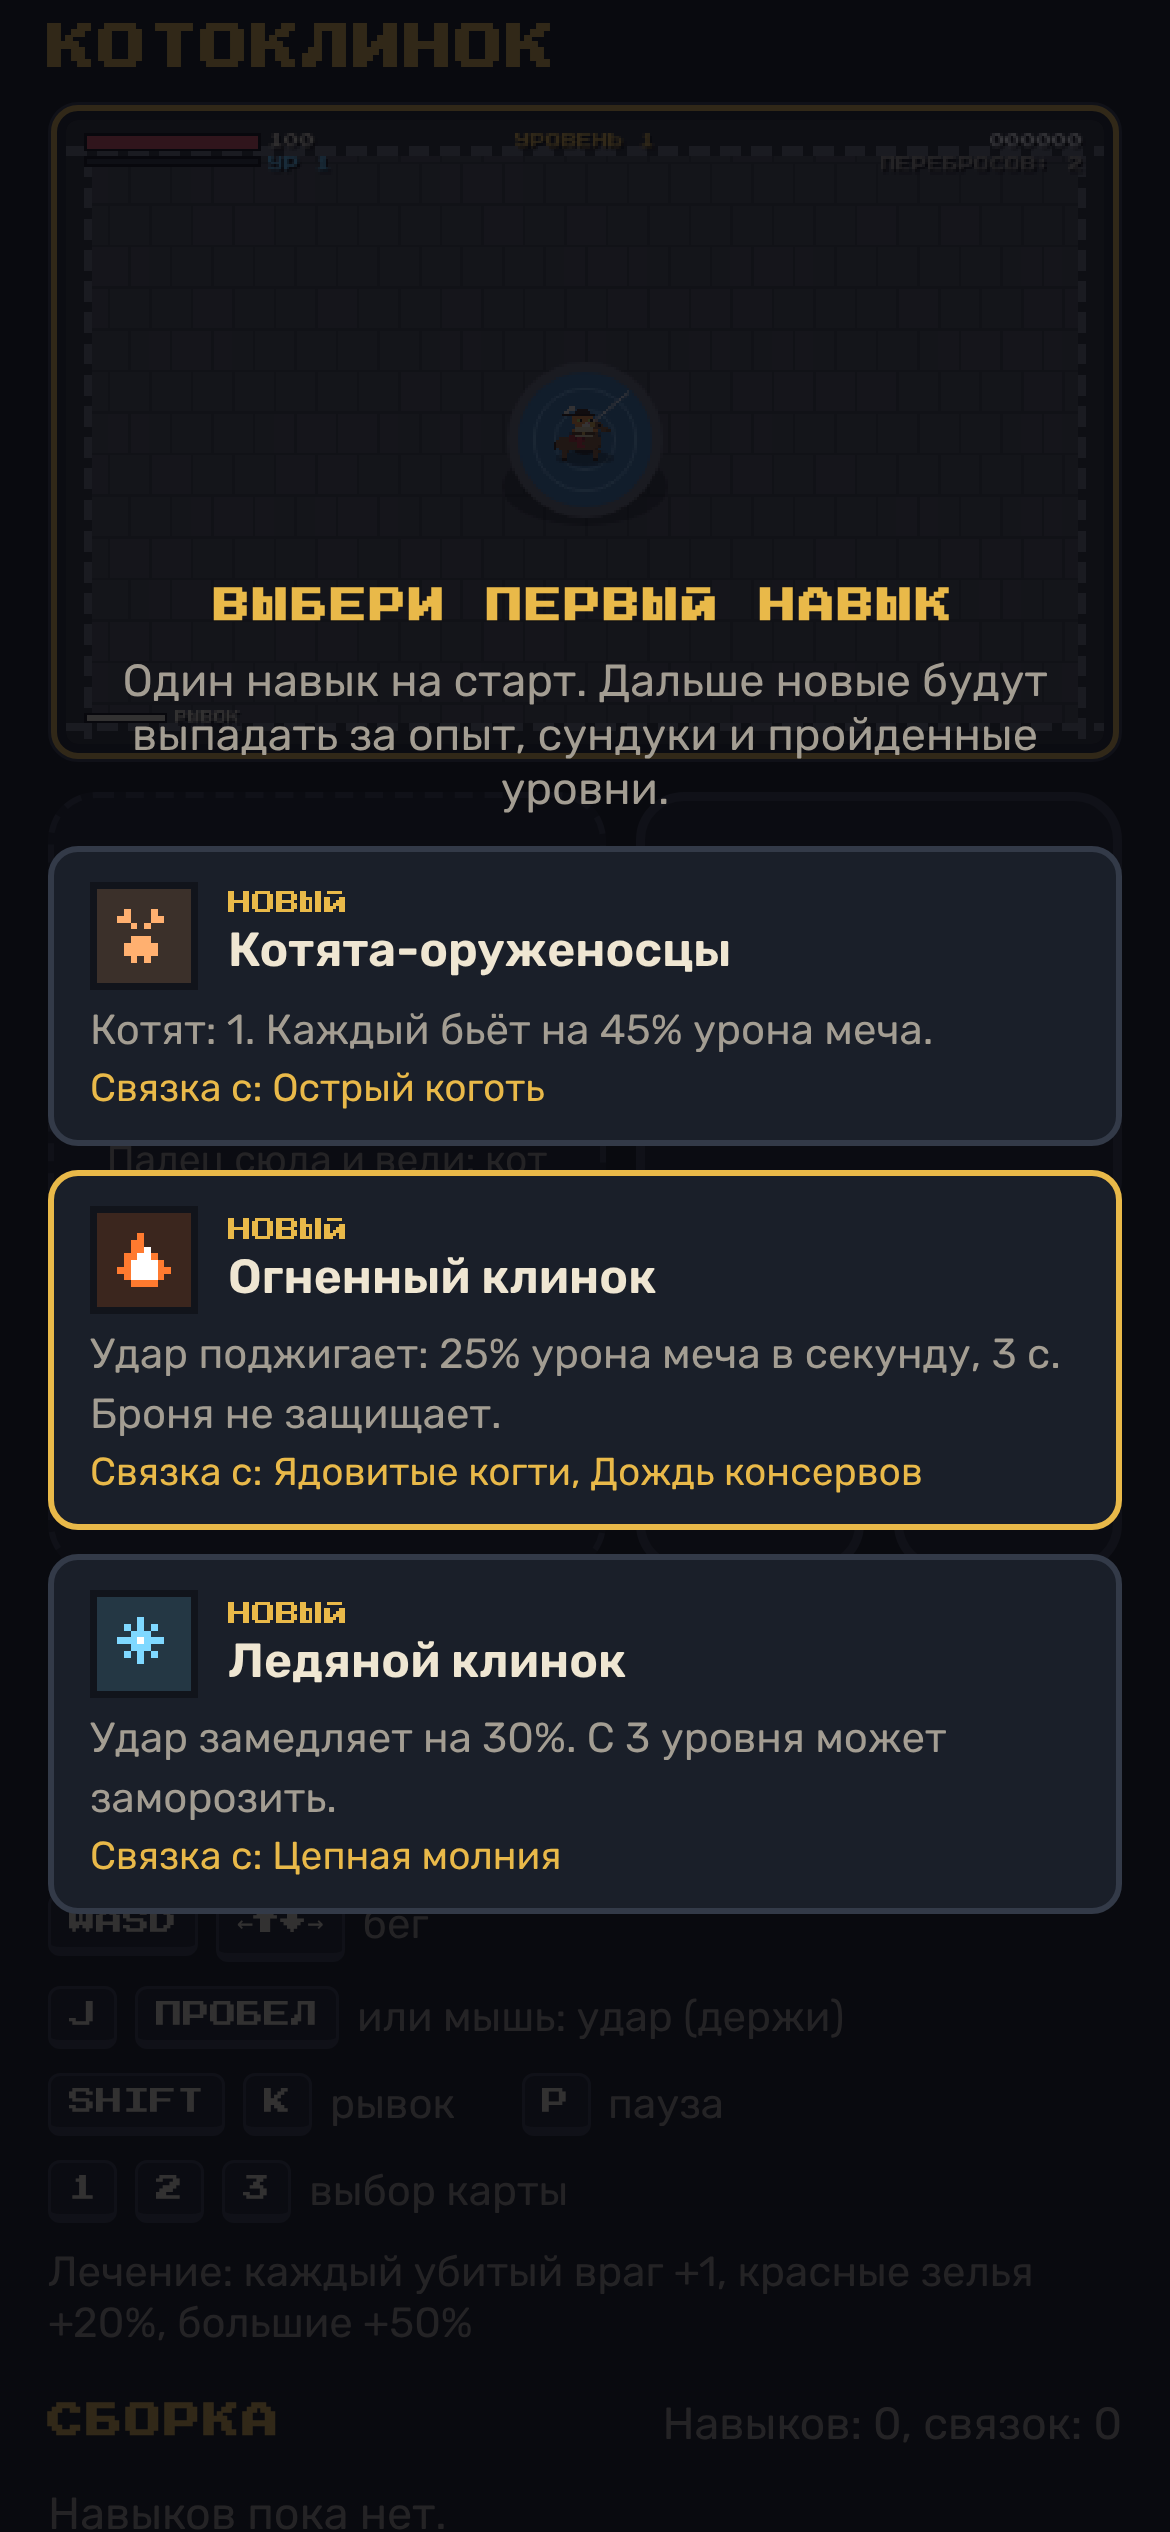
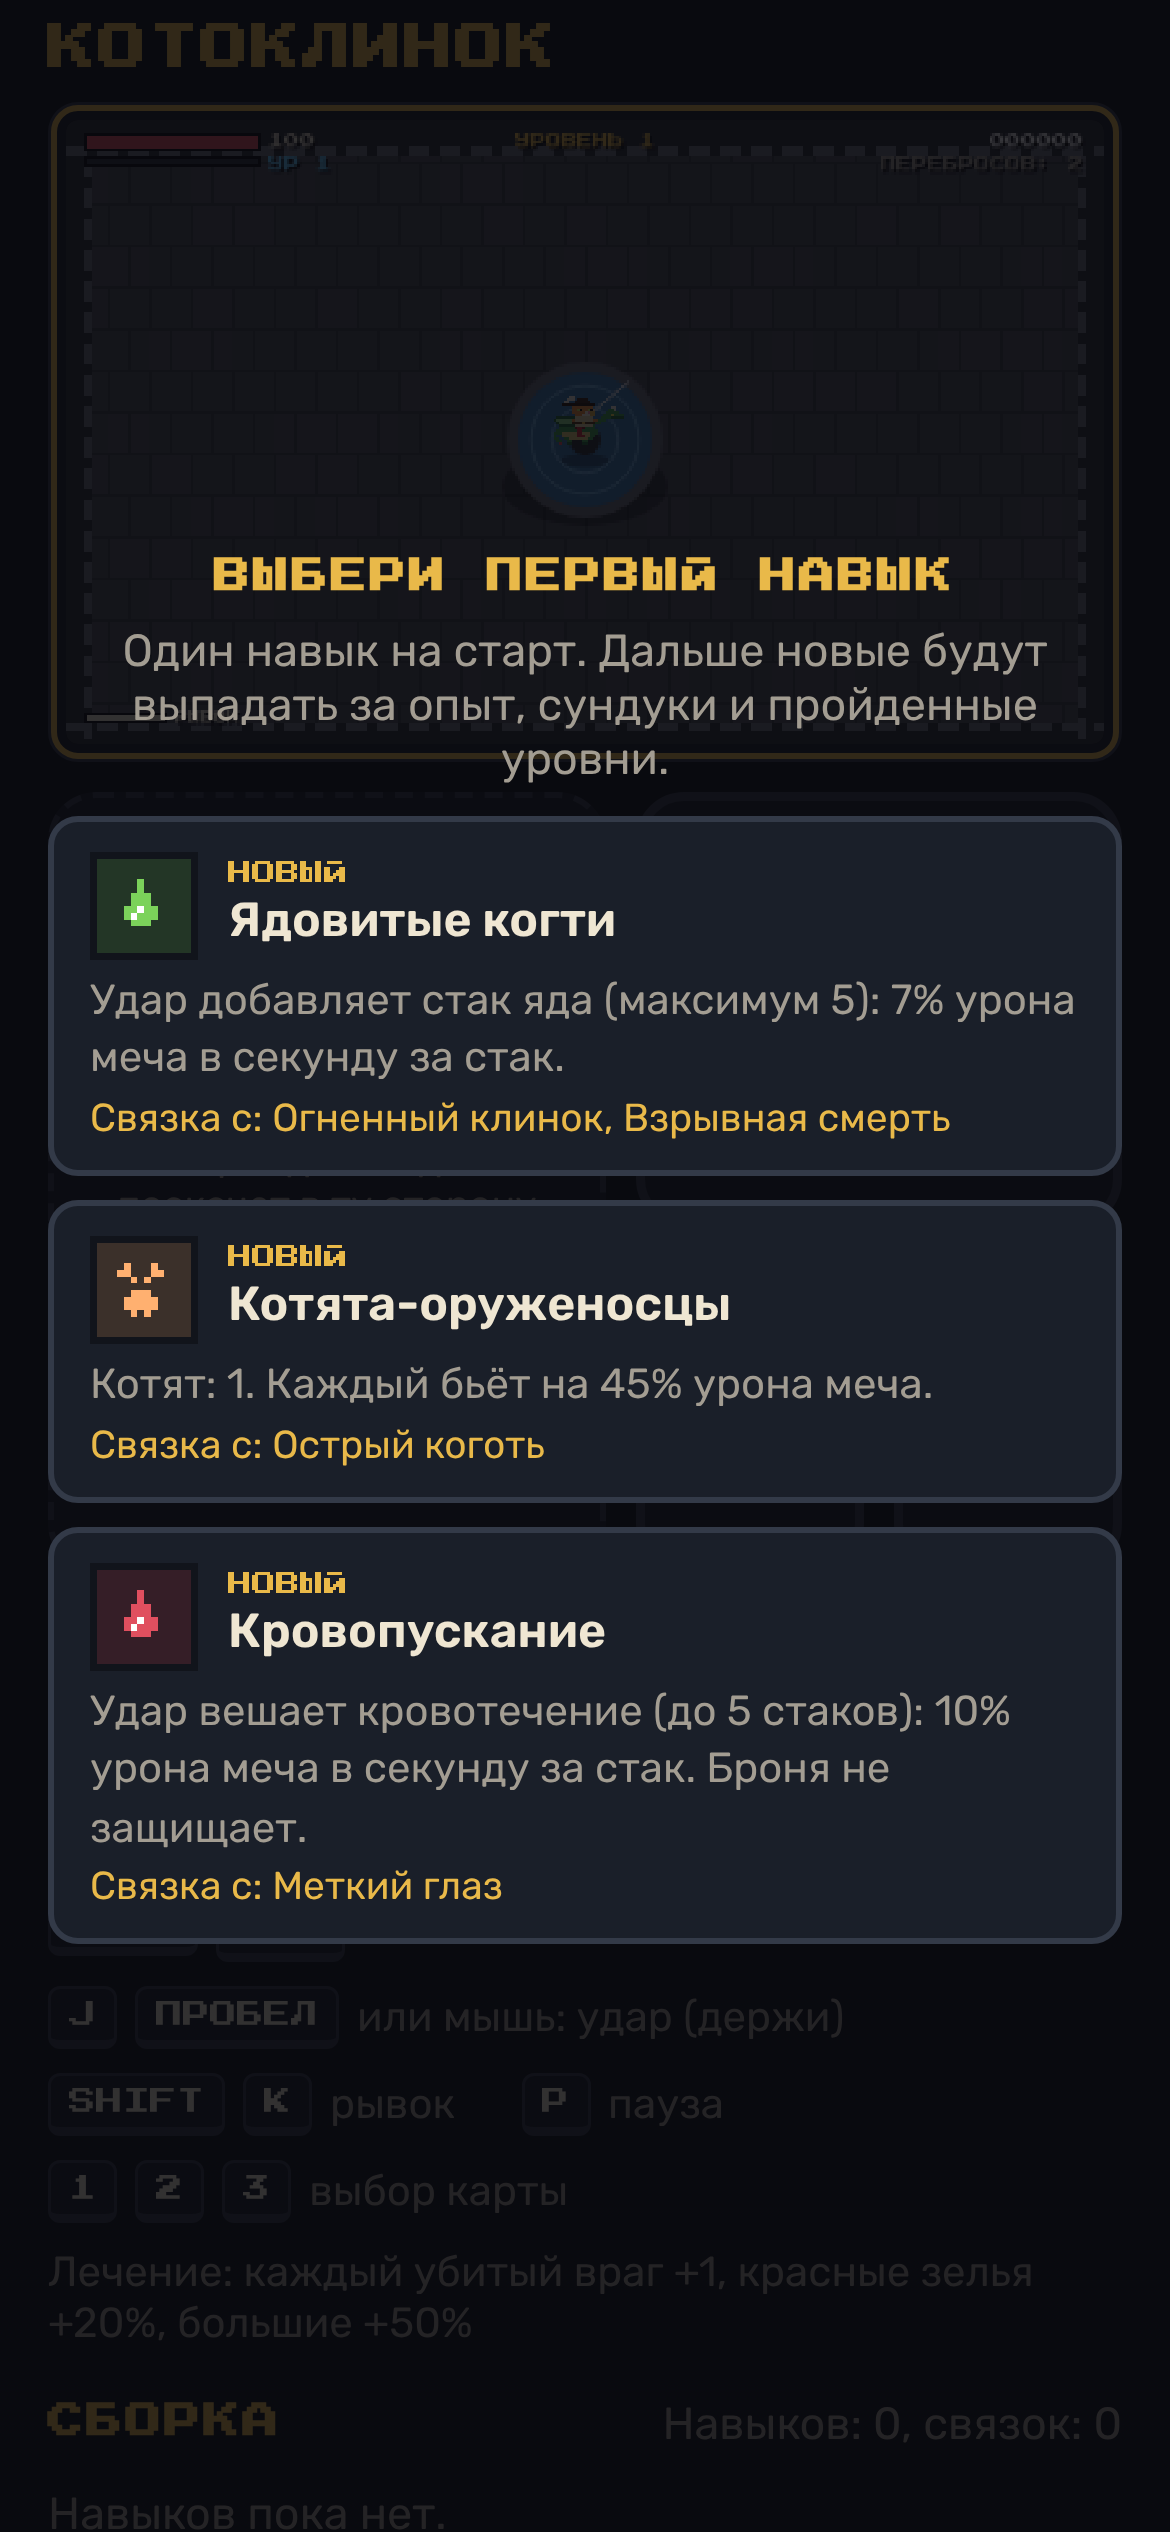
Kotoklinok: cat rides a small dragon; longer levels with more enemies
Claude-Session: https://claude.ai/code/session_01DbCCahaRksbwXVQUwM4NGi

diff --git a/knight/index.html b/knight/index.html
@@ -153,7 +153,7 @@ kbd {
 <div class="wrap">
   <header>
     <h1>КОТОКЛИНОК</h1>
-    <p>Кот в сапогах на коне против крысиного войска. Собери сильную связку навыков.</p>
+    <p>Кот в сапогах на драконе против крысиного войска. Собери сильную связку навыков.</p>
   </header>
 
   <div class="stage">
@@ -267,40 +267,49 @@ const CAT_RIDER = [
   '.........RR.............',
   '.........RRR............',
 ];
-const HORSE_TOP = [
-  '........................',
-  '........................',
-  '........................',
-  '........................',
-  '........................',
-  '...............mn.......',
-  '...............mnn......',
-  '..............mnnxn.....',
-  '..............mnnnnnn...',
-  '.............mnnn.nnNN..',
-  '.............mnnn.......',
-  '......qqqqqqmnnnn.......',
-  '..nnnnqqqqqqnnnnnn......',
-  '.nnnnnqqqqqqnnnnnn......',
-  'mnnnnnnnnnnnnnnnnn......',
-  'mnnnnnnnnnnnnnnnnN......',
-  'm.nnnnnnnnnnnnnnN.......',
+// a small green dragon; the wing layer flaps over its back, the cat sits on top
+const DRAGON = [
+  '............................',
+  '............................',
+  '............................',
+  '............................',
+  '......................cc....',
+  '.....................nnc....',
+  '....................nnnnn...',
+  '...................nnnxnnnn.',
+  '..................nnnnNNNNN.',
+  '................nnnn........',
+  '..............nnnn..........',
+  '...z.z.z....nnnn............',
+  '..nnnnnnnnnnnnnn............',
+  '.nnnnnnnnnnnnnnnn...........',
+  'nnnvvvvvvvvvvvnnn...........',
+  'n..vvvvvvvvvvvnn............',
+  'nn..nnvvvvvvvnn.............',
+  '.nn..nn....nn...............',
+  '..z..NN....NN...............',
+  '............................',
+  '............................',
 ];
-const HORSE_LEGS = [
-  ['...nnN.........nnN......', '...nn..........nn.......', '...nn..........nn.......', '...hh..........hh.......'],
-  ['....nnN......nnN........', '.....nn.....nn..........', '......nn...nn...........', '......hh...hh...........'],
-  ['...nnN.........nnN......', '..nn.............nn.....', '.nn...............nn....', '.hh...............hh....'],
-];
+const WING = {
+  up: { 2: '..j.....................', 3: '..jj....................', 4: '..jmj...................', 5: '..jmmj..................', 6: '..jmmmj.................',
+        7: '..jmmmmj................', 8: '..jmmmmmj...............', 9: '...jmmmmmj..............', 10: '....jjjjjjj.............' },
+  mid: { 8: '.jjjjjjj................', 9: 'jmmmmmmmj...............', 10: '.jmmmmmmj...............', 11: '..jjjjjj................' },
+  down: { 10: '....jjjjj...............', 11: '...jmmmmmj..............', 12: '..jmmmmj................', 13: '.jmmmj..................', 14: '.jjj....................' },
+};
 const KNIGHT_PAL = {
   F: '#f4efe0', H: '#3a2418', b: '#2a1a10', o: '#f39237', g: '#c8e65a', k: '#111', w: '#fff1dc', p: '#ff8fb1',
   s: '#e8d6a8', e: '#5a3a1a', y: '#e9b949', R: '#d0303a', r: '#8a1f28',
-  n: '#8a5a34', N: '#6a4224', m: '#2a1a10', x: '#111', h: '#2a1a10', q: '#b8302e',
+  n: '#3fa34d', N: '#24693a', v: '#e9d27a', c: '#f4efe0', x: '#ffe14d', z: '#e04f5f', j: '#24693a', m: '#8fdc8a',
 };
-function riderRows(legs) {
-  const horse = HORSE_TOP.concat(legs);
-  return horse.map((row, y) => [...row].map((ch, x) => { const c = (CAT_RIDER[y] || '')[x]; return c && c !== '.' ? c : ch; }).join(''));
+function riderRows(wing) {
+  return DRAGON.map((row, y) => [...row].map((ch, x) => {
+    const c = (CAT_RIDER[y] || '')[x]; if (c && c !== '.') return c;
+    const wc = (wing[y] || '')[x]; if (wc && wc !== '.') return wc;
+    return ch;
+  }).join(''));
 }
-const KNIGHT = set(HORSE_LEGS.map(riderRows), KNIGHT_PAL);
+const KNIGHT = set([WING.up, WING.mid, WING.down, WING.mid].map(riderRows), KNIGHT_PAL);
 
 const RAT_TOP = ['........pp..', '......gpggg.', '..ggggggkggg', '.ggggggggggp', 'tgggggggggg.'];
 const RAT_ROWS = [RAT_TOP.concat(['t..l...l....', 'tt..........']), RAT_TOP.concat(['t...l...l...', 'tt..........'])];
@@ -534,7 +543,7 @@ const isBoss = (L) => L % 5 === 0;
 const biomeOf = (L) => Math.floor((L - 1) / 5) % BIOMES.length;
 function startLevel() {
   G.phase = 'fight';
-  G.waves = isBoss(G.level) ? 2 : 3;
+  G.waves = isBoss(G.level) ? 3 : 4;
   const lay = LAYOUTS[(G.level - 1) % LAYOUTS.length]; G.pillars = lay.obs; G.arena = lay.name;
   P.x = 200; P.y = G.pillars.some(p => Math.hypot(p.x - 200, p.y - 125) < p.r + 10) ? 200 : 125;
   foes = []; spawns = []; shots = []; pshots = []; gems = []; zones = []; meteors = [];
@@ -553,7 +562,7 @@ function startWave(w) {
   if (L >= 6) pool.push(['dog', 2]);
   if (L >= 8) pool.push(['shaman', 1]);
   const sum = pool.reduce((a, b) => a + b[1], 0);
-  let n = Math.min(70, 7 + L * 2 + w * 3);
+  let n = Math.min(90, 9 + Math.round(L * 2.4) + w * 4);
   const list = [];
   if (isBoss(L) && w === G.waves) {
     list.push({ type: ['ratking', 'bigdog', 'owl'][(L / 5 - 1) % 3], elite: false });
@@ -568,7 +577,7 @@ function startWave(w) {
     if (type === 'mouse' && !elite) { list.push({ type }, { type }, { type }); i += 2; continue; }
     list.push({ type, elite });
   }
-  if (L >= 4 && w === 3 && elites === 0) list.push({ type: pick(pool)[0], elite: true });
+  if (L >= 4 && w === G.waves && elites === 0) list.push({ type: pick(pool)[0], elite: true });
   G.toSpawn = list;
   G.spawnT = 40;
   if (w > 1) G.banner = { text: 'ВОЛНА ' + w + ' ИЗ ' + G.waves, sub: isBoss(L) && w === G.waves ? 'БОСС ИДЁТ' : '', t: 80 };
@@ -923,11 +932,11 @@ function spawnStep() {
   spawns = spawns.filter(s => s.t > 0);
   if (!G.toSpawn.length) return;
   if (--G.spawnT > 0) return;
-  if (foes.length + spawns.length >= 26 + G.level * 1.5) return;
+  if (foes.length + spawns.length >= 30 + G.level * 1.8) return;
   const next = G.toSpawn.shift();
   const p = FOE[next.type].boss ? { x: 200, y: ARENA.y0 + 40 } : spawnPoint();
   spawns.push({ ...next, ...p, t: FOE[next.type].boss ? 70 : 40 });
-  G.spawnT = Math.max(12, 48 - G.level * 2);
+  G.spawnT = Math.max(10, 42 - G.level * 2);
 }
 
 function foeStep() {
@@ -1329,20 +1338,21 @@ function drawFoe(e) {
 function drawKnight() {
   if (G.phase === 'dead') return;
   const blink = P.inv > 0 && Math.floor(P.inv / 3) % 2;
-  const frame = P.moving ? 1 + Math.floor(P.anim) % 2 : 0;
+  const frame = Math.floor(G.t / (P.moving ? 4 : 7)) % 4;
   const img = P.face > 0 ? KNIGHT.r[frame] : KNIGHT.l[frame];
-  const x = Math.round(P.x - 12), y = Math.round(P.y - 15);
-  cx.fillStyle = 'rgba(0,0,0,0.35)'; cx.beginPath(); cx.ellipse(P.x, P.y + 5, 11, 3, 0, 0, TAU); cx.fill();
+  const bob = Math.round(Math.sin(G.t * 0.12) * 1.5);
+  const x = Math.round(P.x - 12), y = Math.round(P.y - 18) + bob;
+  cx.fillStyle = 'rgba(0,0,0,0.28)'; cx.beginPath(); cx.ellipse(P.x, P.y + 6, 9 - bob * 0.5, 2.5, 0, 0, TAU); cx.fill();
   if (!blink) cx.drawImage(img, x, y);
   // rapier in the cat's paw
-  const hx = P.x + 1 * P.face, hy = P.y - 7;
+  const hx = P.x + 1 * P.face, hy = P.y - 10 + bob;
   const a = P.swingT > 0 ? P.swingA + (P.swingT - 5) * 0.22 * (Math.cos(P.swingA) >= 0 ? 1 : -1) : (P.face > 0 ? -0.7 : Math.PI + 0.7);
   const sl = 12 + st.range * 0.3;
   cx.strokeStyle = '#e8ecf5'; cx.lineWidth = 1;
   cx.beginPath(); cx.moveTo(hx + Math.cos(a) * 2, hy + Math.sin(a) * 2); cx.lineTo(hx + Math.cos(a) * sl, hy + Math.sin(a) * sl); cx.stroke();
   cx.fillStyle = '#e9b949'; cx.fillRect(Math.round(hx + Math.cos(a) * 2) - 1, Math.round(hy + Math.sin(a) * 2) - 1, 2, 2);
   cx.lineWidth = 1;
-  if (lv('yarnshield') && P.shield) { cx.strokeStyle = 'rgba(255,143,208,0.55)'; cx.beginPath(); cx.arc(P.x, P.y - 4, 16, 0, TAU); cx.stroke(); }
+  if (lv('yarnshield') && P.shield) { cx.strokeStyle = 'rgba(255,143,208,0.55)'; cx.beginPath(); cx.arc(P.x, P.y - 7, 16, 0, TAU); cx.stroke(); }
 }
 
 function draw() {
@@ -1445,7 +1455,7 @@ function draw() {
   }
   for (const r of rings) { cx.strokeStyle = r.color; cx.globalAlpha = r.t / 16; cx.lineWidth = 2; cx.beginPath(); cx.arc(r.x, r.y, r.r, 0, TAU); cx.stroke(); cx.lineWidth = 1; cx.globalAlpha = 1; }
   for (const p of fx) {
-    if (p.ghost) { cx.globalAlpha = p.t / 24; cx.drawImage(p.ghost > 0 ? KNIGHT.w[0] : KNIGHT.wl[0], Math.round(p.x - 12), Math.round(p.y - 15)); cx.globalAlpha = 1; continue; }
+    if (p.ghost) { cx.globalAlpha = p.t / 24; cx.drawImage(p.ghost > 0 ? KNIGHT.w[0] : KNIGHT.wl[0], Math.round(p.x - 12), Math.round(p.y - 18)); cx.globalAlpha = 1; continue; }
     cx.fillStyle = p.color; cx.fillRect(Math.round(p.x), Math.round(p.y), 2, 2);
   }
   for (const n of nums) {

diff --git a/README.md b/README.md
@@ -11,7 +11,7 @@
 
 # Котоклинок
 
-Слешер-роглайт про кота-рыцаря. Играть: https://notfayk.github.io/kotoprig/knight/
+Слешер-роглайт про кота в сапогах на драконе. Играть: https://notfayk.github.io/kotoprig/knight/
 
 - Арена, волны врагов, босс каждые 5 уровней; проиграл — забег сначала
 - 28 навыков по 5 уровней и 14 связок; карты выпадают за опыт, сундуки и пройденные уровни
